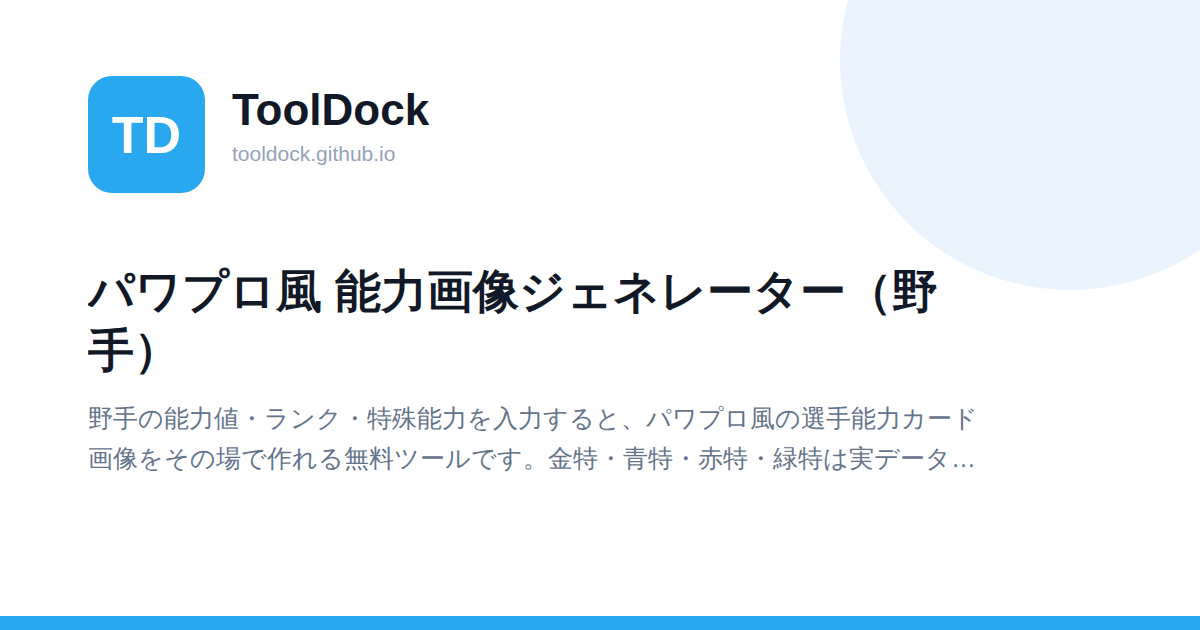
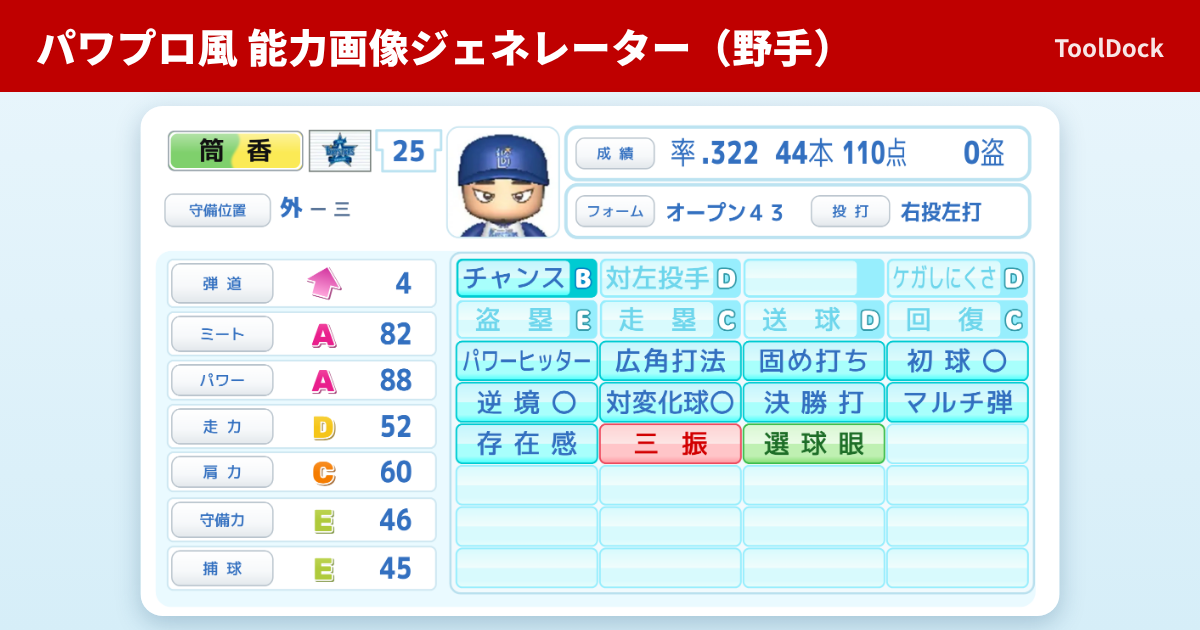
能力画像ジェネレーター：SNSの共有カードを能力画像入りにし、HTMLに直接書く
- 共有カードの画像を、作れる能力画像（使用例）を大きく見せるデザインにする（scripts/ogp/card.html）
- X・LINEなどはJavaScriptを動かさずにページを読むため、OGPを head.js ではなくHTMLに直接書く
- head.js は、OGPを直接書いたページでは二重に出さない

Claude-Session: https://claude.ai/code/session_01SKh1jhAp32CEmbZCaaEmgk

diff --git a/scripts/ogp/card.html b/scripts/ogp/card.html
@@ -1,0 +1,58 @@
+<!DOCTYPE html>
+<!--
+  画像を主役にしたOGP画像（1200x630）のテンプレート。
+  能力画像ジェネレーターのように、作れる画像そのものを見せたいツール用。
+  URLクエリ ?img=<画像のパス>&title=<タイトル> を読んで差し込む。
+
+  使い方（リポジトリの直下で、Chromium が入った playwright-core を使う）:
+    node -e '
+      const { chromium } = require("playwright-core");
+      (async () => {
+        const b = await chromium.launch(); const p = await b.newPage({ viewport: { width: 1200, height: 630 } });
+        await p.goto("file://" + process.cwd() + "/scripts/ogp/card.html?img=../../nouryoku/example-tsutsugo.png&title=" + encodeURIComponent("パワプロ風 能力画像ジェネレーター（野手）"));
+        await p.waitForTimeout(1500); await p.screenshot({ path: "ogp/nouryoku.png" }); await b.close();
+      })();'
+-->
+<html lang="ja">
+<head>
+<meta charset="UTF-8">
+<link href="https://fonts.googleapis.com/css2?family=Noto+Sans+JP:wght@700;900&display=swap" rel="stylesheet">
+<style>
+  * { box-sizing: border-box; margin: 0; padding: 0; }
+  html, body {
+    width: 1200px; height: 630px; overflow: hidden;
+    font-family: "Noto Sans JP", "Hiragino Kaku Gothic ProN", sans-serif;
+  }
+  .stage {
+    position: relative; width: 1200px; height: 630px;
+    background: linear-gradient(180deg, #EAF6FC 0%, #D6EEF8 100%);
+  }
+  /* 上の帯：ゲーム分野の赤（style.css の --c） */
+  .band {
+    position: absolute; left: 0; top: 0; right: 0; height: 92px;
+    background: #BF0000;
+    display: flex; align-items: center; justify-content: space-between;
+    padding: 0 36px;
+    color: #ffffff;
+  }
+  .band .title { font-size: 40px; font-weight: 900; letter-spacing: 0.01em; }
+  .band .site { font-size: 24px; font-weight: 700; opacity: 0.9; }
+  .card {
+    position: absolute; left: 50%; top: 106px; transform: translateX(-50%);
+    height: 510px; border-radius: 22px;
+    box-shadow: 0 8px 24px rgba(20, 70, 110, 0.25);
+  }
+</style>
+</head>
+<body>
+<div class="stage">
+  <div class="band"><div class="title" id="title"></div><div class="site">ToolDock</div></div>
+  <img class="card" id="card" alt="">
+</div>
+<script>
+  var params = new URLSearchParams(location.search);
+  document.getElementById("title").textContent = params.get("title") || "";
+  document.getElementById("card").src = params.get("img") || "";
+</script>
+</body>
+</html>

diff --git a/nouryoku-pitcher/index.html b/nouryoku-pitcher/index.html
@@ -7,6 +7,17 @@
 <title>パワプロ風 能力画像ジェネレーター（投手）｜能力メーカー・能力作成ツール</title>
 <meta name="description" content="パワプロ風の能力画像を作成できる無料の能力メーカー（能力作成ツール）です。投手の能力値・ランク・変化球・金特などの特殊能力を入力するだけで、オリジナル選手や自分・友達の能力を選手能力カード風の画像にできます。PNGで保存でき、SNSの自己紹介にも使えます。">
 <link rel="canonical" href="https://tooldock.github.io/nouryoku-pitcher/">
+<!-- SNS（X・LINEなど）の共有カード。SNSはJavaScriptを動かさずにページを読むので、head.js に任せず直接書く -->
+<meta property="og:type" content="website">
+<meta property="og:site_name" content="ToolDock">
+<meta property="og:title" content="パワプロ風 能力画像ジェネレーター（投手）｜能力メーカー・能力作成ツール | ToolDock">
+<meta property="og:description" content="パワプロ風の能力画像を作成できる無料の能力メーカー（能力作成ツール）です。投手の能力値・ランク・変化球・金特などの特殊能力を入力するだけで、オリジナル選手や自分・友達の能力を選手能力カード風の画像にできます。PNGで保存でき、SNSの自己紹介にも使えます。">
+<meta property="og:url" content="https://tooldock.github.io/nouryoku-pitcher/">
+<meta property="og:image" content="https://tooldock.github.io/ogp/nouryoku-pitcher.png?v=2">
+<meta property="og:image:width" content="1200">
+<meta property="og:image:height" content="630">
+<meta property="og:locale" content="ja_JP">
+<meta name="twitter:card" content="summary_large_image">
 
 <script> const CURRENT_TOOL = "nouryoku-pitcher"; </script>
 <script src="/js/tool-data.js"></script>

diff --git a/nouryoku/index.html b/nouryoku/index.html
@@ -7,6 +7,17 @@
 <title>パワプロ風 能力画像ジェネレーター（野手）｜能力メーカー・能力作成ツール</title>
 <meta name="description" content="パワプロ風の能力画像を作成できる無料の能力メーカー（能力作成ツール）です。野手の能力値・ランク・金特などの特殊能力を入力するだけで、オリジナル選手や自分・友達の能力を選手能力カード風の画像にできます。PNGで保存でき、SNSの自己紹介にも使えます。">
 <link rel="canonical" href="https://tooldock.github.io/nouryoku/">
+<!-- SNS（X・LINEなど）の共有カード。SNSはJavaScriptを動かさずにページを読むので、head.js に任せず直接書く -->
+<meta property="og:type" content="website">
+<meta property="og:site_name" content="ToolDock">
+<meta property="og:title" content="パワプロ風 能力画像ジェネレーター（野手）｜能力メーカー・能力作成ツール | ToolDock">
+<meta property="og:description" content="パワプロ風の能力画像を作成できる無料の能力メーカー（能力作成ツール）です。野手の能力値・ランク・金特などの特殊能力を入力するだけで、オリジナル選手や自分・友達の能力を選手能力カード風の画像にできます。PNGで保存でき、SNSの自己紹介にも使えます。">
+<meta property="og:url" content="https://tooldock.github.io/nouryoku/">
+<meta property="og:image" content="https://tooldock.github.io/ogp/nouryoku.png?v=2">
+<meta property="og:image:width" content="1200">
+<meta property="og:image:height" content="630">
+<meta property="og:locale" content="ja_JP">
+<meta name="twitter:card" content="summary_large_image">
 
 <script> const CURRENT_TOOL = "nouryoku"; </script>
 <script src="/js/tool-data.js"></script>

diff --git a/js/head.js b/js/head.js
@@ -53,6 +53,10 @@ if (tool) {
   const hasDesc = !!document.querySelector('meta[name="description"]');
   const hasCanonical = !!document.querySelector('link[rel="canonical"]');
 
+  /* SNSはJavaScriptを動かさずに読むので、OGPをHTMLに直接書いたページもある。
+     そのページでは二重に出さない */
+  const hasOgp = !!document.querySelector('meta[property="og:image"]');
+
   /* 1つのツールが複数のページを持つとき（ドラフト答え合わせの /draft/2018/ など）は、
      canonical がツールのURLと違う。そのページはSNS共有（OGP）でも
      ページ自身のタイトル・説明・URLを使う。ツールの本体ページはこれまでどおり */
@@ -109,7 +113,7 @@ if (tool) {
     <meta name="robots"
           content="max-image-preview:large">
 
-    <meta property="og:type"
+    ${hasOgp ? "" : `<meta property="og:type"
           content="website">
 
     <meta property="og:site_name"
@@ -137,7 +141,7 @@ if (tool) {
           content="ja_JP">
 
     <meta name="twitter:card"
-          content="summary_large_image">
+          content="summary_large_image">`}
 
     <meta name="theme-color"
           content="${tool.themeColor || "#ffffff"}">
